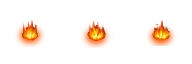
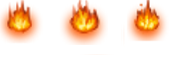
Add some battle improvement. Comming : Ennemies, spellBar, HUD (vita etc ...)

diff --git a/MMO/Client/src/SFML/BattleView.cpp b/MMO/Client/src/SFML/BattleView.cpp
@@ -5,14 +5,16 @@
 // Login   <jourda_c@epitech.net>
 // 
 // Started on  Mon Mar  3 18:11:57 2014 cyril jourdain
-// Last update Wed Mar  5 15:58:12 2014 cyril jourdain
+// Last update Wed Mar  5 17:08:29 2014 cyril jourdain
 //
 
 #include		"SFML/BattleView.hh"
 #include		"Entities/Digitaliser.hh"
 
 BattleView::BattleView(SFMLView *v, WindowManager *w) :
-  ContextView(v,w), _playerList(new std::list<OPlayerSprite*>()), _ennemyList(new std::list<OPlayerSprite*>()), _playingMob(NULL), _selection(new Sprite()), _spellSprite(new Sprite())
+  ContextView(v,w), _playerList(new std::list<OPlayerSprite*>()),
+  _ennemyList(new std::list<OPlayerSprite*>()), _playingMob(NULL), _selectedMob(NULL), _selection(new Sprite()),
+  _spellSprite(new Sprite()), _spellSpriteCase(new Sprite())
 {
 }
 
@@ -35,24 +37,30 @@ void			BattleView::onInit()
       _playerList->push_back(new OPlayerSprite((static_cast<Mob*>(*it))->getName(),
 					       _sfmlView->getFont()));
       _sfmlView->getSpriteManager()->copySprite("perso1", *_playerList->back());
-      _playerList->back()->play("default_right");
+      _playerList->back()->play("default_up");
       _playerList->back()->generateOffset();
       _playerList->back()->setPosition(posY, ((BATTLE_SIZE- 2) * CASE_SIZE) - _playerList->back()->getCurrentBound()->height / 2 + 4);
+      _playerList->back()->setPos(posY / CASE_SIZE, BATTLE_SIZE - 2);
       posY += 3*CASE_SIZE;
       limit++;
     }
   _playingMob = _playerList->front();
   _sfmlView->getSpriteManager()->copySprite("selectedPlayer", *_selection);
   _sfmlView->getSpriteManager()->copySprite("Lance-Flamme", *_spellSprite);
+  _sfmlView->getSpriteManager()->copySprite("translucentCase", *_spellSpriteCase);
   _selection->play("default_down");
   _spellSprite->play("mouse");
-  (*_spellSprite)["mouse"]->setFrameLength(50000);
+  _spellSpriteCase->play("default");
+  _spellSpriteCase->setVisible(false);
+  (*_spellSprite)["mouse"]->setFrameLength(120000);
   (*_selection)["default_down"]->setFrameLength(45000);
 }
 void			BattleView::onUpdate()
 {
   _selection->setPosition((_playingMob->getPosition().x), (_playingMob->getPosition().y - CASE_SIZE));
   _selection->update(*_sfmlView->getMainClock());
+  _spellSprite->update(*_sfmlView->getMainClock());
+  _spellSpriteCase->update(*_sfmlView->getMainClock());
 }
 
 void			BattleView::onKeyEvent(sf::Event const &event)
@@ -61,9 +69,38 @@ void			BattleView::onKeyEvent(sf::Event const &event)
 
 void			BattleView::onMouseEvent(QMouseEvent *event)
 {
+  bool			found = false;
+
   if (event->button() == Qt::NoButton)
     {
-      std::cout << "move mouse" << std::endl;
+      sf::Vector2f v = _sfmlView->mapPixelToCoords(sf::Vector2i(event->x(), event->y()));
+      _spellSprite->setPosition(v.x, v.y);
+      for (auto it = _playerList->begin(); it != _playerList->end(); ++it)
+	{
+	  if ((*it)->isClicked(v.x, v.y))
+	    {
+	      // _spellSpriteCase->setPosition((static_cast<int>(static_cast<int>(v.x) / CASE_SIZE))
+	      // 				    *CASE_SIZE,
+	      // 				    (static_cast<int>(static_cast<int>(v.y) / CASE_SIZE))
+	      // 				    *CASE_SIZE);
+	      _selectedMob = (*it);
+	      _spellSpriteCase->setPosition((*it)->getPos()->x * CASE_SIZE,
+					    (*it)->getPos()->y * CASE_SIZE);
+	      _spellSpriteCase->setVisible(true);
+	      found = true;
+	    }
+	}
+      if (!found)
+	{
+	  _spellSpriteCase->setVisible(false);
+	  _selectedMob = NULL;
+	}
+
+    }
+  if (event->button() == Qt::LeftButton)
+    {
+      if (_selectedMob)
+	_selectedMob->onClick();
     }
 }
 
@@ -75,12 +112,14 @@ void			BattleView::drawView()
 {
   _backgroundSprite->setTexture(_backgroundTexture->getTexture());
   _sfmlView->draw(*_backgroundSprite);
+  _sfmlView->draw(*_spellSpriteCase);
   for (auto it = _playerList->begin(); it != _playerList->end(); ++it)
     {
       (*it)->update(*_sfmlView->getMainClock());
       _sfmlView->draw(*(*it));
     }
   _sfmlView->draw(*_selection);
+  _sfmlView->draw(*_spellSprite);
   _sfmlView->setView(*(_sfmlView->getMainView()));
 }
 
@@ -92,6 +131,7 @@ void			BattleView::loadBackgroundMap()
 	{
 	  ((*_spriteMap)[y])[x] = _sfmlView->getSpriteManager()->copySprite("grass");
 	  ((*_spriteMap)[y])[x]->play("default");
+	  ((*_spriteMap)[y])[x]->setPos(x, y);
 	}
     }
 }

diff --git a/MMO/Client/src/SFML/Sprite/Sprite.cpp b/MMO/Client/src/SFML/Sprite/Sprite.cpp
@@ -5,7 +5,7 @@
 // Login   <jourda_c@epitech.net>
 // 
 // Started on  Tue Jan 28 14:19:12 2014 cyril jourdain
-// Last update Fri Feb 28 22:37:48 2014 cyril jourdain
+// Last update Wed Mar  5 17:01:04 2014 cyril jourdain
 //
 
 #include		<stdexcept>
@@ -15,7 +15,7 @@
 Sprite::Sprite():
   sf::Drawable(), sf::Transformable(), Clickable(), _texture(NULL),
   _anim(new std::map<std::string, Animation *>), _vertex(new sf::Vertex [4]),
-  _current(""), _playing(false)
+  _current(""), _playing(false), _visible(true)
 {
   // _vertex[0].texCoords = sf::Vector2f(0,0);
   // _vertex[1].texCoords = sf::Vector2f(0,100);
@@ -46,6 +46,7 @@ Sprite::Sprite(Sprite const &other) :
   _vertex[3].color = sf::Color(255,255,255);
   _current = "";
   _playing = false;
+  _visible = other._visible;
   _texture = other._texture;
   // Remember to add other things
 }
@@ -84,7 +85,7 @@ Animation		*Sprite::operator[](std::string const &id)
 
 void			Sprite::draw(sf::RenderTarget &target, sf::RenderStates states) const
 {
-  if (_texture && _vertex) {
+  if (_visible && _texture && _vertex) {
     states.texture = _texture;
     states.transform *= getTransform();
     target.draw(_vertex, 4, sf::Quads, states);
@@ -112,7 +113,7 @@ void			Sprite::update(sf::Clock &clock)
 
 bool			Sprite::isClicked(float const x, float const y) const
 {
-  if (x >= getPosition().x && x <= getPosition().x + getCurrentBound()->width && y >= getPosition().y
+  if (_visible && x >= getPosition().x && x <= getPosition().x + getCurrentBound()->width && y >= getPosition().y
       && y <= getPosition().y + getCurrentBound()->height)
     return true;
   return false;
@@ -178,6 +179,11 @@ void			Sprite::print()
     }
 }
 
+void			Sprite::setVisible(bool val)
+{
+  _visible = val;
+}
+
 std::string		Sprite::getLastPlayed()
 {
   return _current;
@@ -189,3 +195,4 @@ sf::IntRect		*Sprite::getCurrentBound() const
     return ((*_anim)[_current]->getCurrentCoord());
   return NULL;
 }
+

diff --git a/MMO/Client/src/SFML/SFMLView.cpp b/MMO/Client/src/SFML/SFMLView.cpp
@@ -5,7 +5,7 @@
 // Login   <jourda_c@epitech.net>
 // 
 // Started on  Thu Sep 26 15:05:46 2013 cyril jourdain
-// Last update Wed Mar  5 15:56:10 2014 cyril jourdain
+// Last update Wed Mar  5 17:10:26 2014 cyril jourdain
 //
 
 /*
@@ -109,6 +109,7 @@ void			SFMLView::onUpdate()
 	{
 	  *(_wMan->getState()) = CLIENT::BATTLE;
 	  _battleView->resetPOV();
+	  _spellBar->show();
 	}
       break;
     case CLIENT::LOADING_BATTLE:
